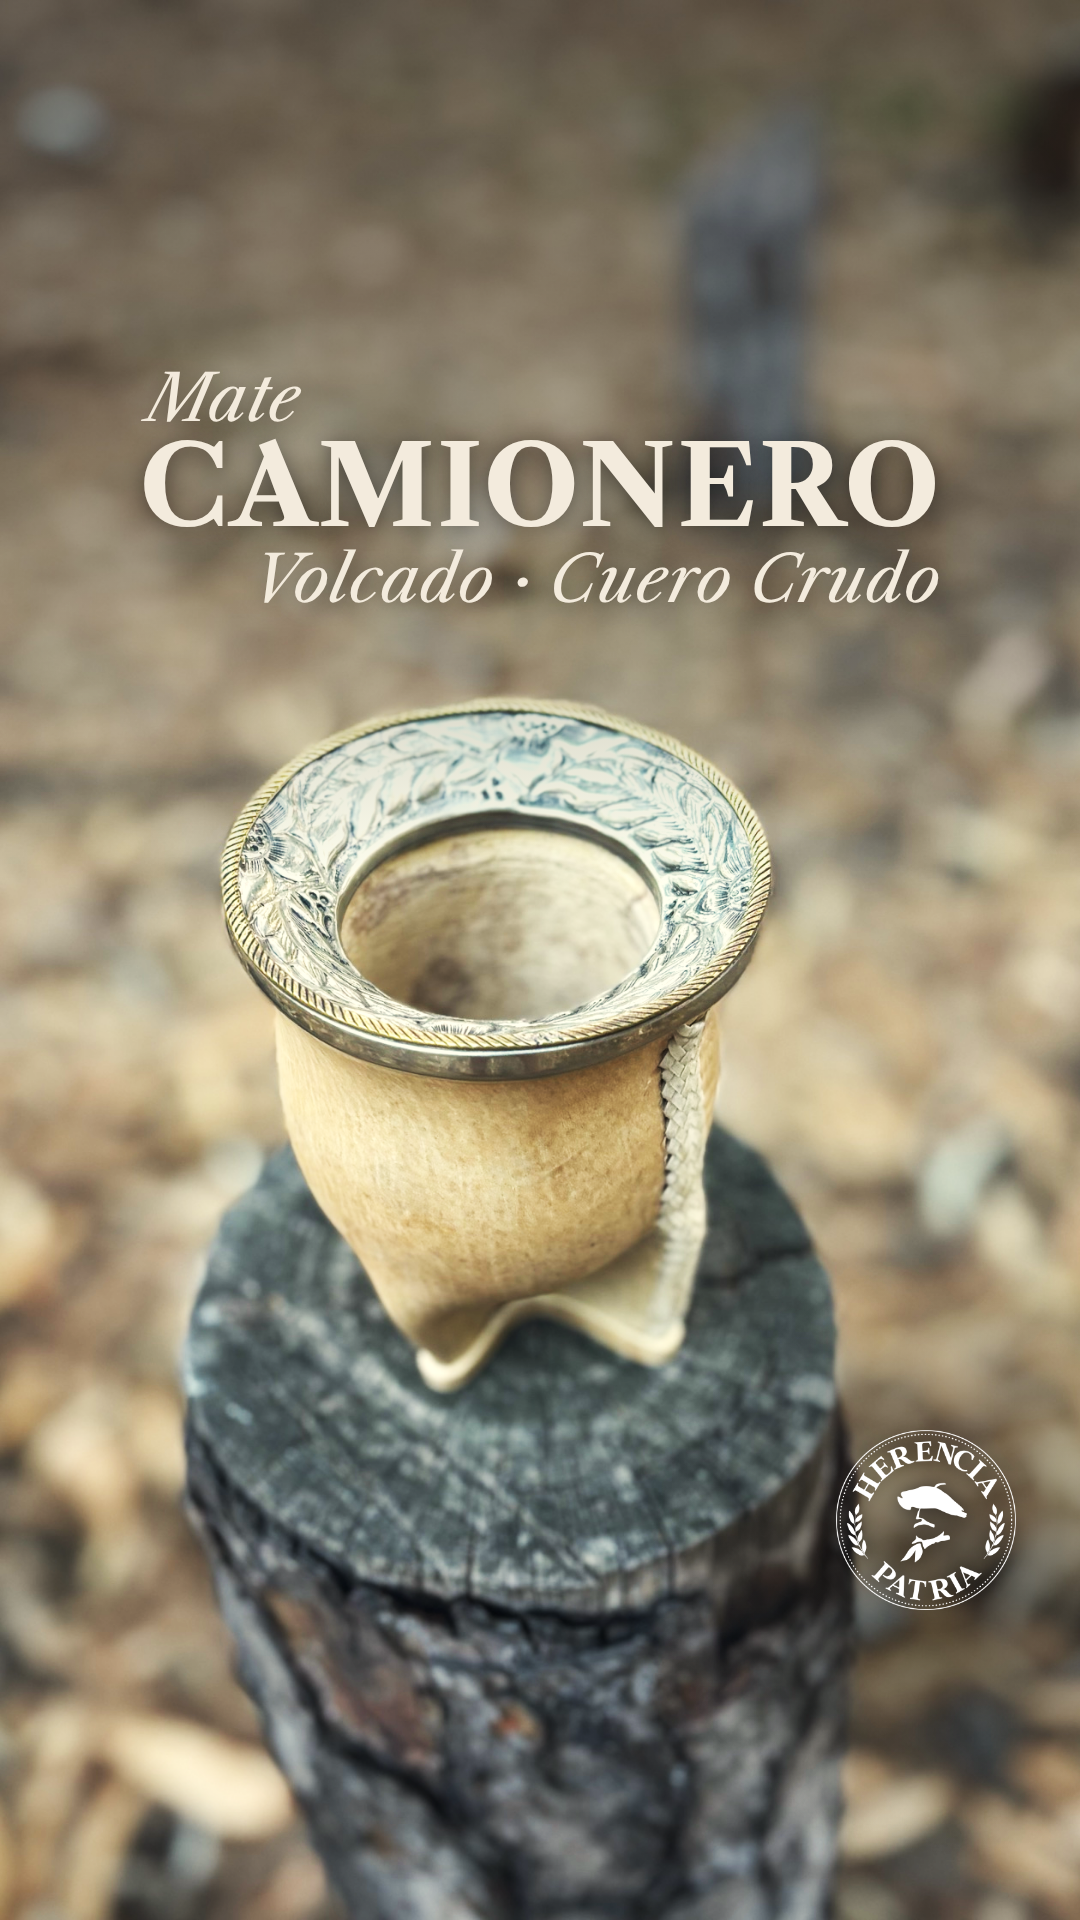
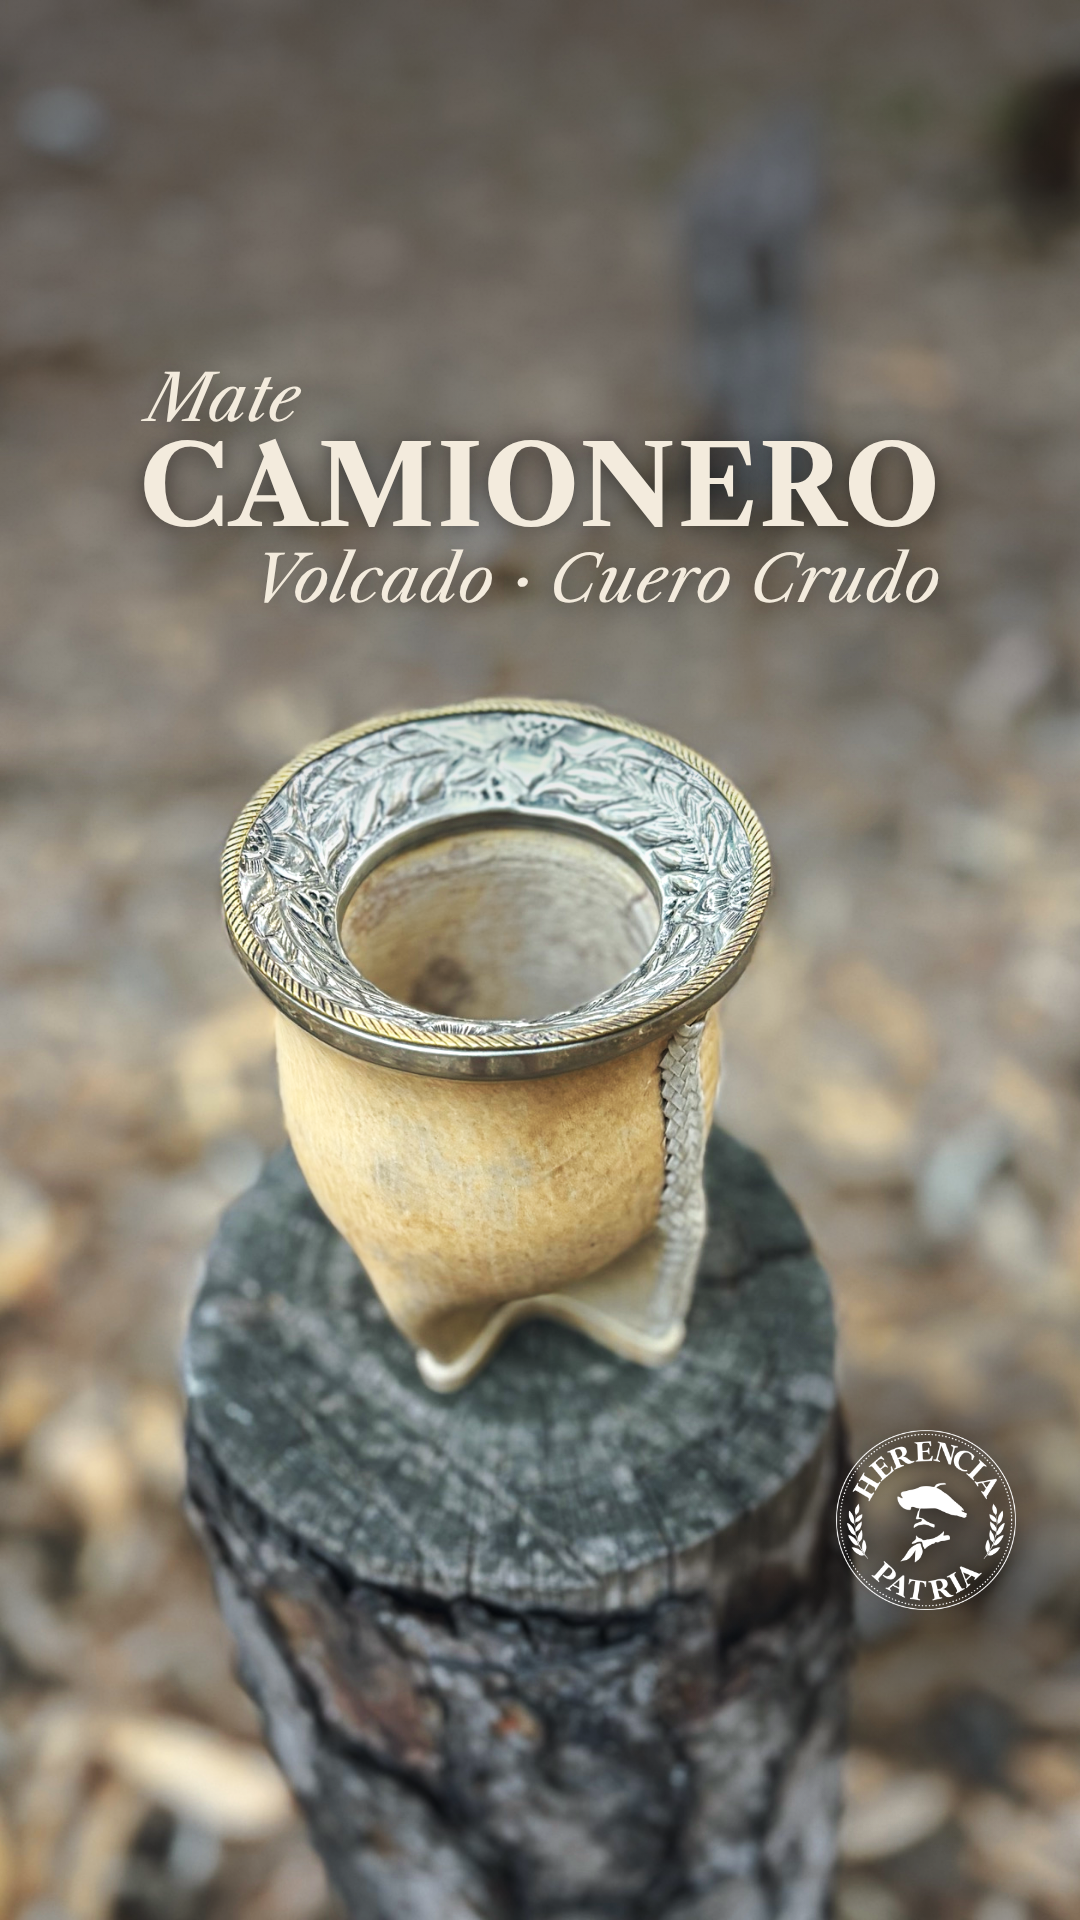
Cover grade: keep the virola's original metal tones
The accent light and S-curve pushed the chased silver toward white and
flattened the relief. Metal (bright, unsaturated in the original) now
keeps its original tones with mild local contrast; the warm grade
applies to the rawhide and background only.

Claude-Session: https://claude.ai/code/session_01W2uTfCUGokKMKtzDGAbmtd

diff --git a/tools/luz_portada.py b/tools/luz_portada.py
@@ -22,6 +22,7 @@ def main():
     cx, cy, rx, ry = (float(v) for v in sys.argv[3:7])
     warm = float(sys.argv[7]) if len(sys.argv) > 7 else 1.0
     im = np.asarray(Image.open(src).convert("RGB")).astype(np.float32) / 255
+    orig = im.copy()
     h, w, _ = im.shape
     yy, xx = np.mgrid[0:h, 0:w].astype(np.float32)
     d = ((xx / w - cx) / rx) ** 2 + ((yy / h - cy) / ry) ** 2
@@ -40,6 +41,21 @@ def main():
     im[..., 2] *= 1 - 0.07 * warm
     luma = im.mean(2, keepdims=True)
     im = luma + (im - luma) * 1.06
+    # El metal (claro y sin color en la foto original) no se aclara: vuelve a
+    # sus tonos originales, con un poco de definición local para marcar el
+    # cincelado. El resto de la imagen se queda con la corrección.
+    from PIL import ImageFilter
+
+    orig_l = orig.mean(2, keepdims=True)
+    orig_sat = orig.max(2, keepdims=True) - orig.min(2, keepdims=True)
+    metal = np.clip((orig_l - 0.42) / 0.15, 0, 1) * np.clip((0.16 - orig_sat) / 0.08, 0, 1)
+    metal = np.asarray(
+        Image.fromarray((metal[..., 0] * 255).astype(np.uint8)).filter(ImageFilter.GaussianBlur(3))
+    ).astype(np.float32)[..., None] / 255
+    o_img = Image.fromarray((orig * 255).astype(np.uint8))
+    o_blur = np.asarray(o_img.filter(ImageFilter.GaussianBlur(5))).astype(np.float32) / 255
+    metal_px = orig + 0.6 * (orig - o_blur)
+    im = im * (1 - metal) + metal_px * metal
     out = Image.fromarray((np.clip(im, 0, 1) * 255).astype(np.uint8))
     # PNG para no sumar otra compresión JPEG antes del render.
     out.save(dst, quality=95) if dst.lower().endswith((".jpg", ".jpeg")) else out.save(dst)
